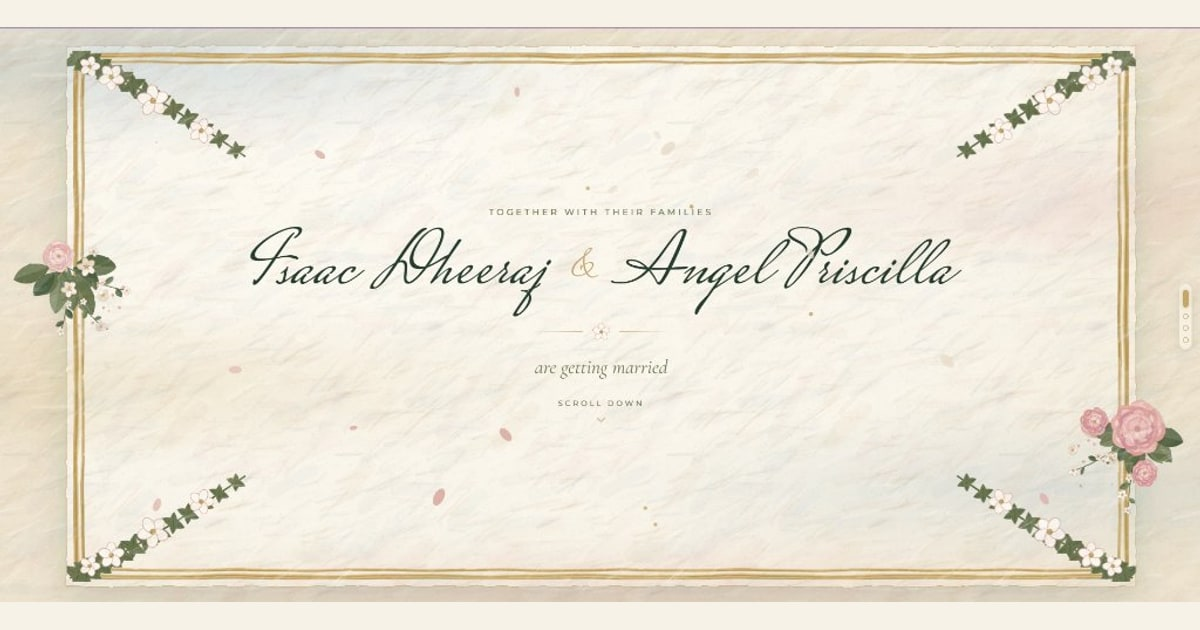
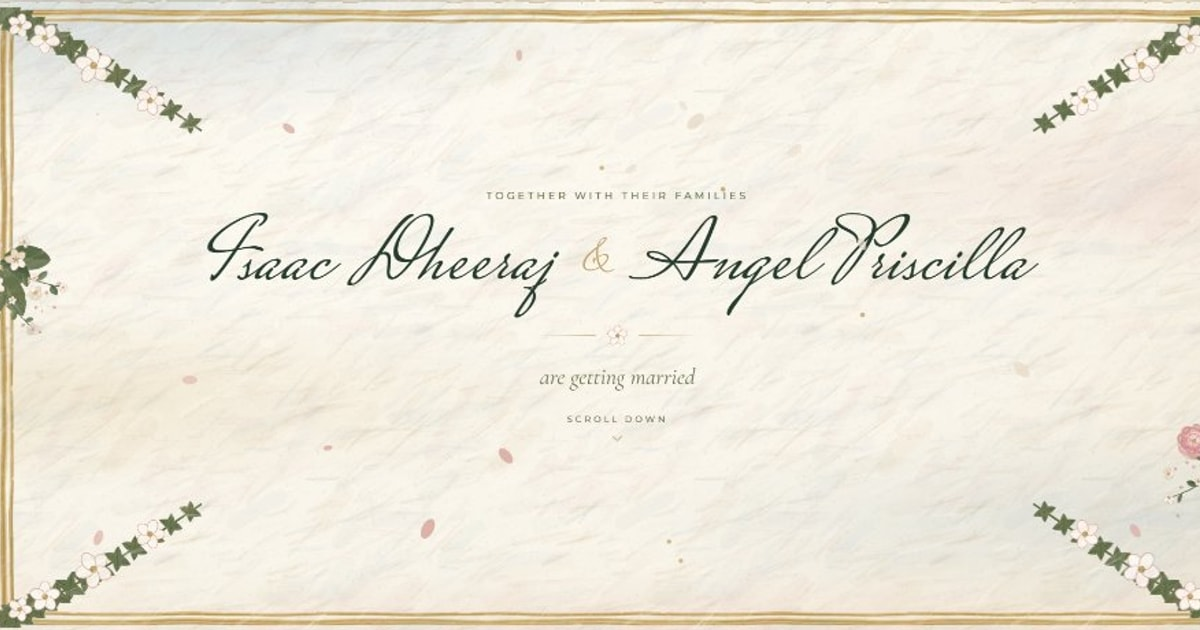
feat: increase text and details size on share card by framing directly on the card

diff --git a/index.html b/index.html
@@ -12,8 +12,8 @@
   <meta property="og:title" content="Isaac Dheeraj &amp; Angel Priscilla are getting married">
   <meta property="og:description" content="28 December 2026 · All Saints Church, Secunderabad">
   <meta property="og:url" content="https://dheeraj-and-angel.vercel.app/">
-  <meta property="og:image" content="https://dheeraj-and-angel.vercel.app/og-image-calligraphy.jpg">
-  <meta property="og:image:secure_url" content="https://dheeraj-and-angel.vercel.app/og-image-calligraphy.jpg">
+  <meta property="og:image" content="https://dheeraj-and-angel.vercel.app/og-image-calligraphy-v2.jpg">
+  <meta property="og:image:secure_url" content="https://dheeraj-and-angel.vercel.app/og-image-calligraphy-v2.jpg">
   <meta property="og:image:type" content="image/jpeg">
   <meta property="og:image:width" content="1200">
   <meta property="og:image:height" content="630">
@@ -22,7 +22,7 @@
   <meta name="twitter:card" content="summary_large_image">
   <meta name="twitter:title" content="Isaac Dheeraj &amp; Angel Priscilla are getting married">
   <meta name="twitter:description" content="28 December 2026 · All Saints Church, Secunderabad">
-  <meta name="twitter:image" content="https://dheeraj-and-angel.vercel.app/og-image-calligraphy.jpg">
+  <meta name="twitter:image" content="https://dheeraj-and-angel.vercel.app/og-image-calligraphy-v2.jpg">
 
   <!-- ===== FAVICON ===== -->
   <link rel="icon" href="/favicon.ico" sizes="48x48">
